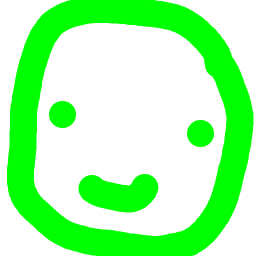
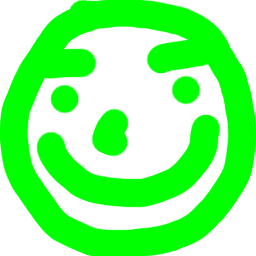
Revert "Major restructure"
This reverts commit d2feb4986870993c91dedbbfac531b2aa789a289.
Reverted this restructure because I can simply choose to edit the script and then selectively git add when necessary. Realistically, I want to be able to edit easier.

diff --git a/extras/README.md b/extras/README.md
@@ -1,0 +1,3 @@
+# Extras
+Some files here are copied by the initialization script, such as `game_manager`, which becomes `game_manager.gd`.
+Other files may be added in the future.
